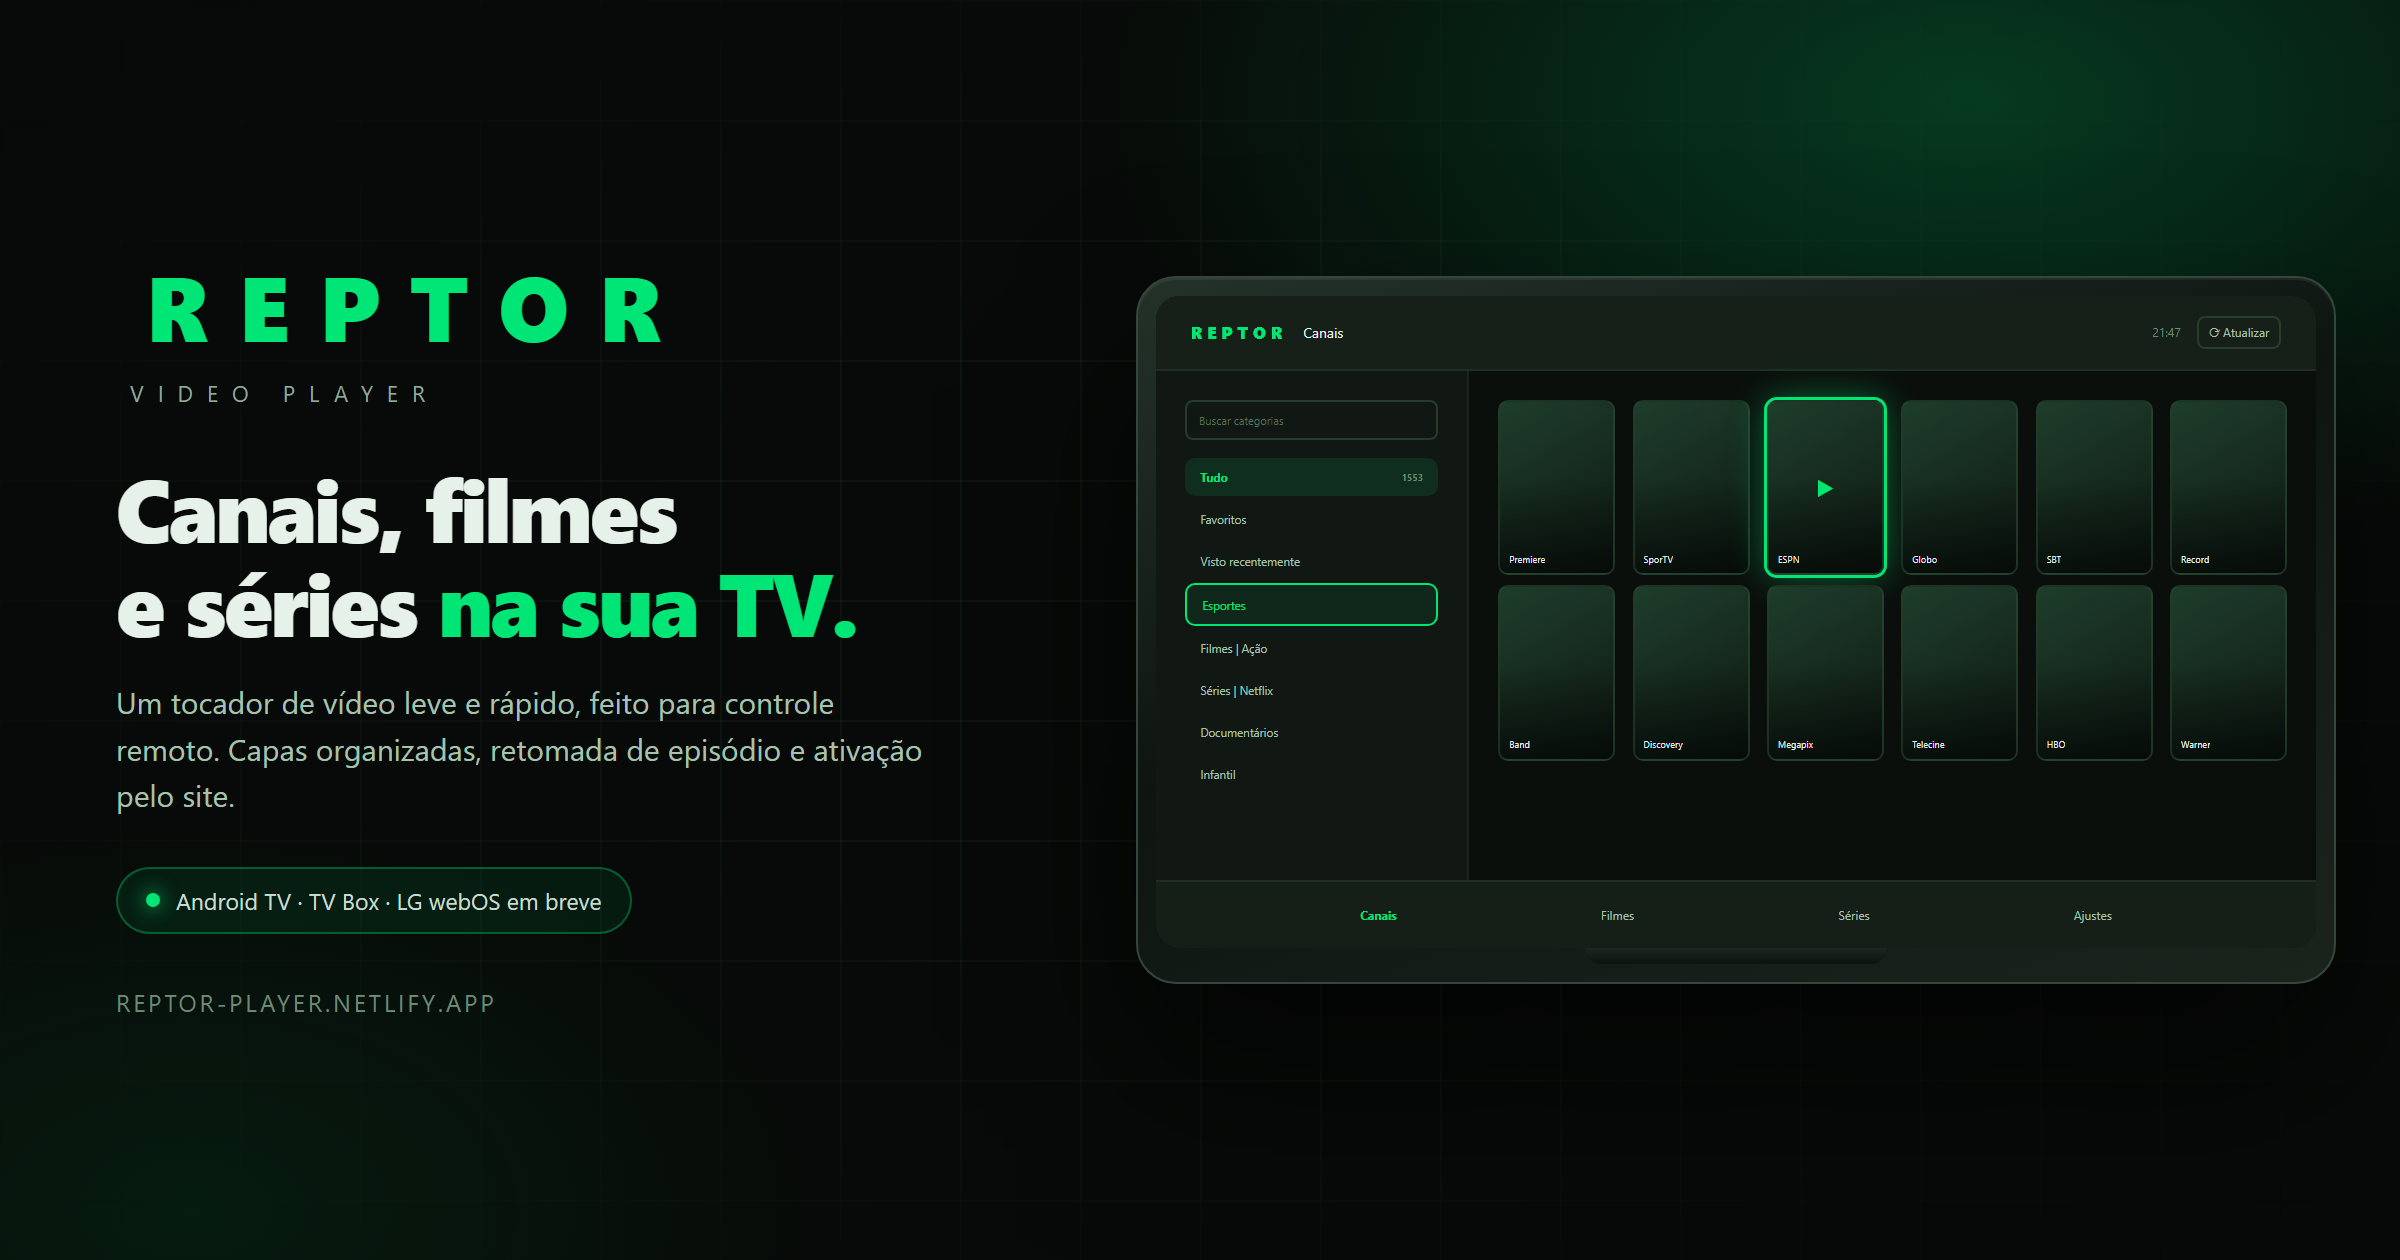
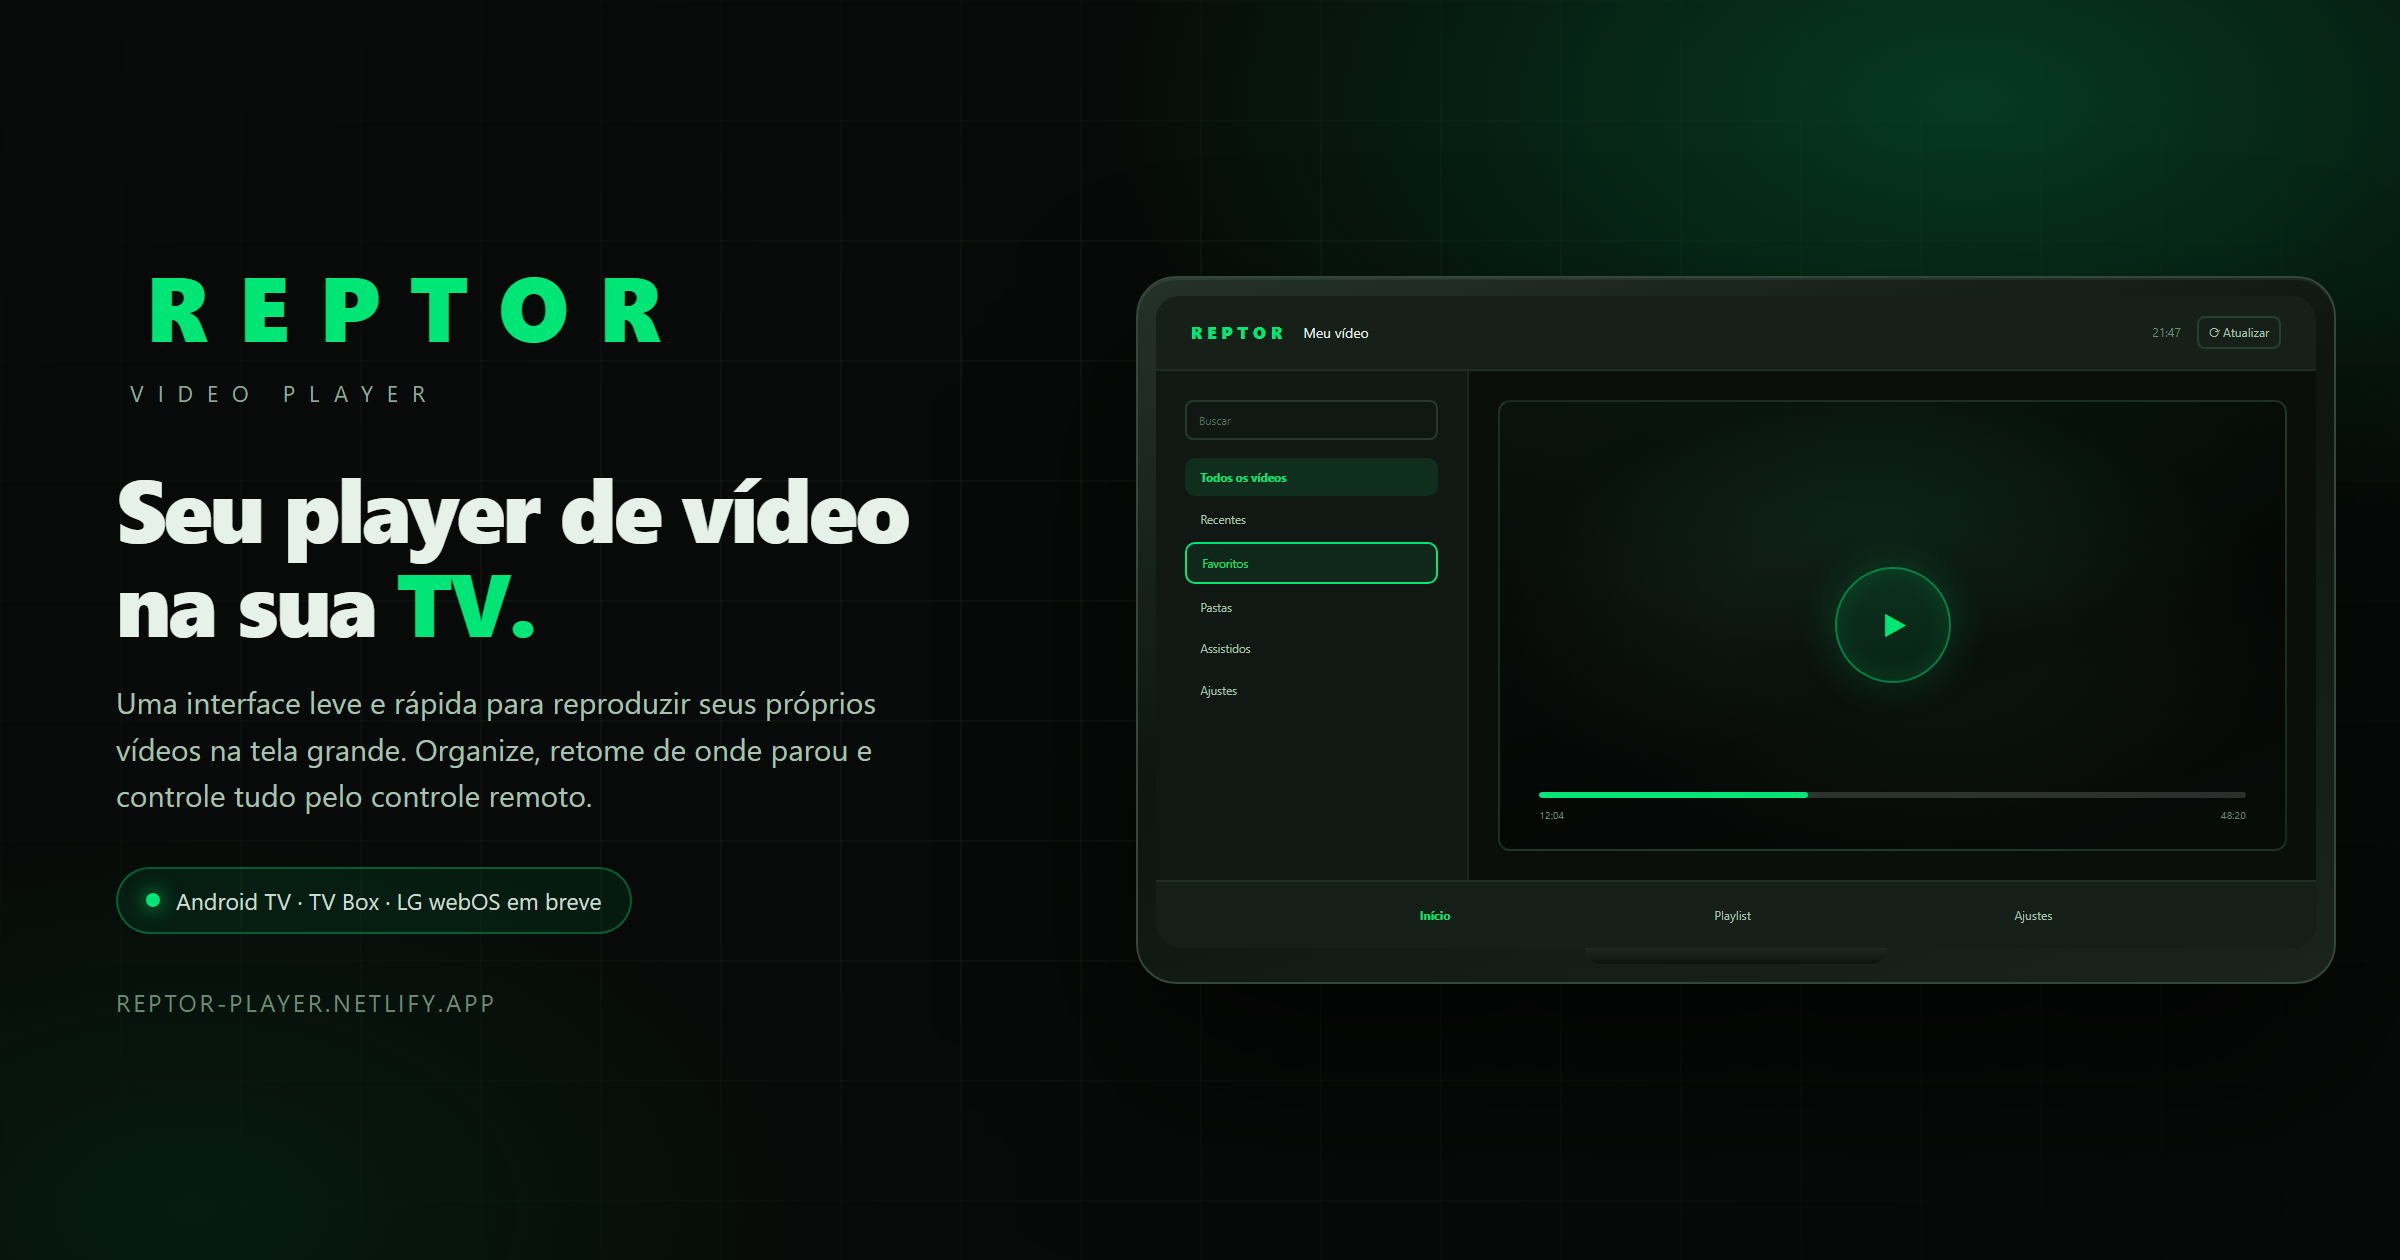
Site: identidade neutra de player de video (sem categorias) e nova capa

diff --git a/site/public/index.html b/site/public/index.html
@@ -4,11 +4,11 @@
   <meta charset="utf-8" />
   <meta name="viewport" content="width=device-width, initial-scale=1" />
   <meta name="theme-color" content="#070A08" />
-  <title>Reptor Player — Canais, filmes e séries na sua TV</title>
-  <meta name="description" content="Reptor Player: tocador de vídeo para Android TV e TV Box. Canais ao vivo, filmes e séries com capas organizadas, controle remoto e ativação pelo site." />
+  <title>Reptor Player — VIDEO PLAYER</title>
+  <meta name="description" content="Reptor Player é um player de vídeo para Android TV e TV Box. Reproduza seus próprios vídeos com uma interface leve, controle remoto e ativação pelo site." />
   <meta property="og:type" content="website" />
   <meta property="og:title" content="Reptor Player — VIDEO PLAYER" />
-  <meta property="og:description" content="Canais, filmes e séries na sua TV. Ativação pelo site, sem digitar no controle." />
+  <meta property="og:description" content="Seu player de vídeo na sua TV. Ativação pelo site, sem digitar no controle." />
   <meta property="og:image" content="/assets/capa.png" />
   <meta name="twitter:card" content="summary_large_image" />
   <meta name="twitter:image" content="/assets/capa.png" />
@@ -35,17 +35,16 @@
     <section class="wrap hero">
       <div class="hero-copy">
         <span class="pill"><i></i> Android TV · TV Box · LG webOS em breve</span>
-        <h1>Canais, filmes<br>e séries <em>na sua TV.</em></h1>
+        <h1>Seu player de vídeo<br>na sua <em>TV.</em></h1>
         <p class="lead">
-          Um tocador de vídeo leve e rápido, feito para controle remoto.
-          Capas organizadas, retomada de episódio e ativação pelo site —
-          sem digitar nada no controle.
+          Uma interface leve e rápida para reproduzir seus próprios vídeos na tela
+          grande. Organize, retome de onde parou e controle tudo pelo controle remoto.
         </p>
         <div class="actions">
           <a class="btn primary" href="/ativar">Ativar minha TV</a>
           <a class="btn ghost" href="#como">Como funciona</a>
         </div>
-        <p class="fine">Ativação em segundos pelo código que aparece na TV.</p>
+        <p class="fine">Ativação pelo site: sem digitar nada no controle.</p>
       </div>
 
       <div class="hero-art" aria-hidden="true">
@@ -54,41 +53,33 @@
             <div class="app">
               <div class="app-top">
                 <b>REPTOR</b>
-                <span>Canais</span>
+                <span>Meu vídeo</span>
                 <i>21:47</i>
                 <u>⟳ Atualizar</u>
               </div>
               <div class="app-body">
                 <div class="app-side">
-                  <div class="s-search">Buscar categorias</div>
-                  <div class="s-item on">Tudo <em>1553</em></div>
-                  <div class="s-item">Favoritos</div>
-                  <div class="s-item">Visto recentemente</div>
-                  <div class="s-item focus">Esportes</div>
-                  <div class="s-item">Filmes | Ação</div>
-                  <div class="s-item">Séries | Netflix</div>
-                  <div class="s-item">Documentários</div>
-                  <div class="s-item">Infantil</div>
+                  <div class="s-search">Buscar</div>
+                  <div class="s-item on">Todos os vídeos</div>
+                  <div class="s-item">Recentes</div>
+                  <div class="s-item focus">Favoritos</div>
+                  <div class="s-item">Pastas</div>
+                  <div class="s-item">Assistidos</div>
+                  <div class="s-item">Ajustes</div>
                 </div>
-                <div class="app-grid">
-                  <div class="poster"><span>Premiere</span></div>
-                  <div class="poster"><span>SporTV</span></div>
-                  <div class="poster on"><span>ESPN</span></div>
-                  <div class="poster"><span>Globo</span></div>
-                  <div class="poster"><span>SBT</span></div>
-                  <div class="poster"><span>Record</span></div>
-                  <div class="poster"><span>Band</span></div>
-                  <div class="poster"><span>Discovery</span></div>
-                  <div class="poster"><span>Megapix</span></div>
-                  <div class="poster"><span>Telecine</span></div>
-                  <div class="poster"><span>HBO</span></div>
-                  <div class="poster"><span>Warner</span></div>
+                <div class="player-screen">
+                  <div class="frame">
+                    <div class="big-play">▶</div>
+                    <div class="player-bar">
+                      <div class="line"><i></i></div>
+                      <div class="meta"><span>12:04</span><span>48:20</span></div>
+                    </div>
+                  </div>
                 </div>
               </div>
               <div class="app-nav">
-                <span class="on">Canais</span>
-                <span>Filmes</span>
-                <span>Séries</span>
+                <span class="on">Início</span>
+                <span>Playlist</span>
                 <span>Ajustes</span>
               </div>
             </div>
@@ -100,59 +91,59 @@
 
     <section class="wrap section" id="recursos">
       <span class="eyebrow">Recursos</span>
-      <h2>Tudo em um só lugar</h2>
+      <h2>Feito para a tela grande</h2>
       <p class="sub">
-        Cada tipo de conteúdo no seu lugar: canais ao vivo, filmes e séries.
-        Sem misturar, sem bagunça.
+        O Reptor Player reproduz o conteúdo que você já tem. Sem catálogo próprio,
+        sem assinatura e sem intermediários.
       </p>
 
       <div class="features">
         <article class="feature">
           <div class="icon">
             <svg viewBox="0 0 24 24" fill="none" stroke="currentColor" stroke-width="1.8" stroke-linecap="round" stroke-linejoin="round">
-              <rect x="3" y="6" width="18" height="13" rx="2.5" />
-              <path d="M8 3l2 3M16 3l-2 3" />
-              <path d="M11 11.5l3.2 2-3.2 2z" />
+              <circle cx="12" cy="12" r="9" />
+              <path d="M10 8.5l5.5 3.5-5.5 3.5z" />
             </svg>
           </div>
-          <h3>Canais ao vivo</h3>
-          <p>Grade por categoria, favoritos e histórico. Troque de canal sem sair do player.</p>
+          <h3>Reprodução</h3>
+          <p>Player rápido, com retomada de onde parou, legendas e ajuste de tela.</p>
         </article>
 
         <article class="feature">
           <div class="icon">
             <svg viewBox="0 0 24 24" fill="none" stroke="currentColor" stroke-width="1.8" stroke-linecap="round" stroke-linejoin="round">
-              <rect x="3" y="4" width="18" height="16" rx="2.5" />
-              <path d="M8 4v16M16 4v16M3 9h5M3 15h5M16 9h5M16 15h5" />
+              <path d="M4 6h16M4 12h16M4 18h10" />
+              <circle cx="18" cy="18" r="2" />
             </svg>
           </div>
-          <h3>Filmes</h3>
-          <p>Capas próprias de cada título, busca por nome e ordenação por categoria.</p>
+          <h3>Organização</h3>
+          <p>Seus vídeos em pastas, com busca, favoritos e histórico de reprodução.</p>
         </article>
 
         <article class="feature">
           <div class="icon">
             <svg viewBox="0 0 24 24" fill="none" stroke="currentColor" stroke-width="1.8" stroke-linecap="round" stroke-linejoin="round">
-              <path d="M4 5h16v14H4z" />
-              <path d="M9 5v14M4 10h5M4 15h5" />
-              <path d="M13 9h4M13 13h4" />
+              <rect x="3" y="7" width="18" height="11" rx="5.5" />
+              <path d="M8 10.5v4M6 12.5h4" />
+              <circle cx="16" cy="11.5" r="1" fill="currentColor" stroke="none" />
+              <circle cx="18.5" cy="14" r="1" fill="currentColor" stroke="none" />
             </svg>
           </div>
-          <h3>Séries</h3>
-          <p>Temporadas e episódios em ordem, com fila completa e retomada de onde parou.</p>
+          <h3>Controle remoto</h3>
+          <p>Navegação por D-pad, teclas de mídia e botão voltar do controle.</p>
         </article>
 
         <article class="feature">
           <div class="icon">
             <svg viewBox="0 0 24 24" fill="none" stroke="currentColor" stroke-width="1.8" stroke-linecap="round" stroke-linejoin="round">
-              <path d="M5 7h14M5 12h14M5 17h14" />
-              <circle cx="9" cy="7" r="1.8" fill="currentColor" stroke="none" />
-              <circle cx="15" cy="12" r="1.8" fill="currentColor" stroke="none" />
-              <circle cx="8" cy="17" r="1.8" fill="currentColor" stroke="none" />
+              <rect x="4" y="4" width="7" height="7" rx="1.5" />
+              <rect x="13" y="4" width="7" height="7" rx="1.5" />
+              <rect x="4" y="13" width="7" height="7" rx="1.5" />
+              <path d="M13 16.5h7M16.5 13v7" />
             </svg>
           </div>
-          <h3>Ajustes</h3>
-          <p>Trocar de perfil, atualizar o painel e rever os termos de uso quando quiser.</p>
+          <h3>Ativação pelo site</h3>
+          <p>Leia o QR Code da TV, informe seu acesso e o aparelho entra sozinho.</p>
         </article>
       </div>
     </section>
@@ -220,10 +211,10 @@
     <section class="wrap">
       <div class="legal">
         <p>
-          <b>Reptor Player é apenas um tocador de vídeo.</b> Não fornecemos, hospedamos,
-          vendemos nem distribuímos conteúdo. Todo o material exibido é de responsabilidade
-          do usuário, que deve possuir os direitos de uso. Ao ativar, você concorda com os
-          termos de uso exibidos no aplicativo.
+          <b>Reptor Player é um player de vídeo.</b> Não oferecemos canais, assinaturas,
+          conteúdo ou qualquer serviço de streaming. Todo o material reproduzido é
+          informado pelo próprio usuário, que deve possuir os direitos de uso. Ao
+          ativar, você concorda com os termos exibidos no aplicativo.
         </p>
       </div>
       <footer class="foot">

diff --git a/site/public/home.css b/site/public/home.css
@@ -268,56 +268,79 @@ a { color: inherit; }
 .s-item.on { color: var(--green); background: rgba(0, 230, 118, 0.1); font-weight: 700; }
 .s-item.focus { border: 1px solid var(--green); color: var(--green); background: rgba(0, 230, 118, 0.08); }
 
-.app-grid {
+.player-screen {
   flex: 1;
+  min-width: 0;
   padding: 2.5%;
-  display: grid;
-  grid-template-columns: repeat(6, 1fr);
-  gap: 2.2%;
-  align-content: start;
+  display: flex;
 }
 
-.poster {
+.frame {
   position: relative;
-  aspect-ratio: 2 / 3;
-  border-radius: 5px;
-  overflow: hidden;
-  background: linear-gradient(150deg, #1E3D2B, #0E1912);
-  border: 1px solid rgba(46, 74, 54, 0.45);
-}
-
-.poster::after {
-  content: "";
-  position: absolute;
-  inset: 0;
-  background: linear-gradient(to top, rgba(0, 0, 0, 0.55), transparent 55%);
-}
-
-.poster span {
-  position: absolute;
-  left: 8%;
-  bottom: 5%;
-  z-index: 1;
-  font-size: 4.4px;
-  color: rgba(230, 242, 233, 0.9);
-  white-space: nowrap;
-  overflow: hidden;
-  max-width: 84%;
-  text-overflow: ellipsis;
-}
-
-.poster.on { box-shadow: 0 0 0 1.5px var(--green), 0 0 16px rgba(0, 230, 118, 0.4); }
-.poster.on::before {
-  content: "▶";
-  position: absolute;
-  inset: 0;
+  flex: 1;
   display: flex;
   align-items: center;
   justify-content: center;
+  border-radius: 6px;
+  overflow: hidden;
+  border: 1px solid rgba(46, 74, 54, 0.45);
+  background:
+    radial-gradient(120% 90% at 50% 0%, rgba(0, 230, 118, 0.1), transparent 62%),
+    linear-gradient(160deg, #16221A, #0A100C 58%, #101A13);
+}
+
+.frame::before {
+  content: "";
+  position: absolute;
+  inset: 0;
+  background: radial-gradient(closest-side, transparent 42%, rgba(0, 0, 0, 0.55));
+  pointer-events: none;
+}
+
+.big-play {
+  position: relative;
+  width: clamp(34px, 13%, 58px);
+  aspect-ratio: 1;
+  display: grid;
+  place-items: center;
+  padding-left: 2px;
+  border-radius: 50%;
   color: var(--green);
-  font-size: 10px;
-  z-index: 2;
-  text-shadow: 0 2px 8px rgba(0, 0, 0, 0.8);
+  font-size: 14px;
+  background: rgba(0, 230, 118, 0.1);
+  border: 1px solid rgba(0, 230, 118, 0.45);
+  box-shadow: 0 0 22px rgba(0, 230, 118, 0.2), inset 0 0 12px rgba(0, 230, 118, 0.12);
+}
+
+.player-bar {
+  position: absolute;
+  left: 5%;
+  right: 5%;
+  bottom: 6%;
+}
+
+.player-bar .line {
+  height: 3px;
+  border-radius: 3px;
+  background: rgba(230, 242, 233, 0.16);
+  overflow: hidden;
+}
+
+.player-bar .line i {
+  display: block;
+  width: 38%;
+  height: 100%;
+  border-radius: 3px;
+  background: var(--green);
+  box-shadow: 0 0 8px rgba(0, 230, 118, 0.6);
+}
+
+.player-bar .meta {
+  display: flex;
+  justify-content: space-between;
+  margin-top: 5px;
+  font-size: 5.2px;
+  color: var(--muted);
 }
 
 .app-nav {
